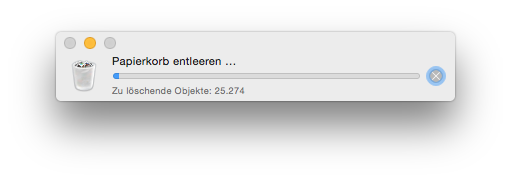
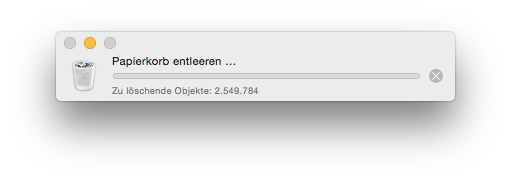
add page delete-all-the-things

Changed region(s): [[0.8219, 0.3591, 0.8806, 0.4696], [0.411, 0.4696, 0.5284, 0.5249], [0.2055, 0.3867, 0.2348, 0.442]]

diff --git a/pages/delete-all-the-things.rst b/pages/delete-all-the-things.rst
@@ -1,0 +1,28 @@
+.. title: Delete all the things
+.. slug: delete-all-the-things
+.. date: 2016-03-03 04:54:50 UTC+01:00
+.. tags: 
+.. description: 
+.. type: text
+
+Ich liebe es nach dem Aufräumen des Rechners viele Dateien aus dem Papierkorb zu löschen.
+
+.. image:: /images/delete-all-the-things.jpg
+
+Mac OS X
+--------
+
+.. image:: /images/mac-os-x-papierkorb-leeren.png
+	:alt: Papierkorb mit 2549784 Dateien leeren auf Mac OS X 10.10.5 Yosemite
+
+NixOS
+-----
+
+Alte Pakete und Konfigurationen löschen::
+
+	nix-collect-garbage -d
+	[...]
+	deleting ‘/nix/store/trash’
+	deleting unused links...
+	note: currently hard linking saves 102.96 MiB
+	9560 store paths deleted, 7965.67 MiB freed
